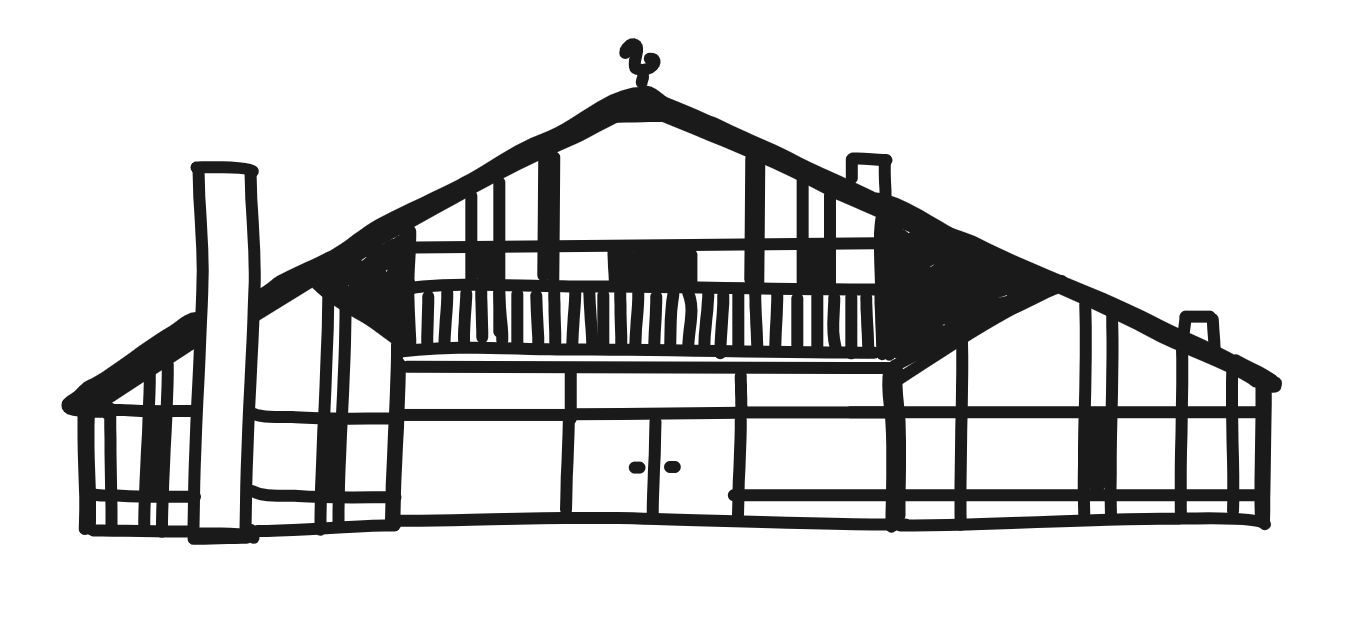
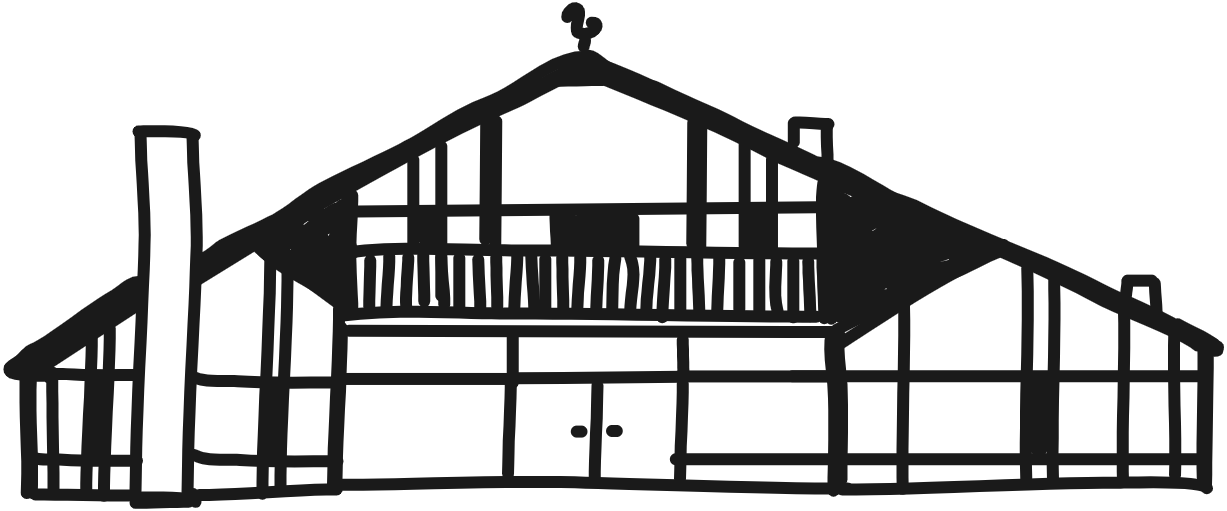
Adds a main photo, adds a bunch of styling

diff --git a/styles.css b/styles.css
@@ -12,25 +12,19 @@
   --lobster: 'Lobster', cursive;
 
   /* spacing */
-  --section-margin: 0.55em;
+  /* --section-margin: 0.55em; */
+  --page-width: 960px;
 }
 
 html {
   font-family: var(--im-fell-english);
   color: var(--almost-black);
+  text-align: center;
 }
 
 body {
   margin: 0;
   background-color: var(--background-tan);
-  text-align: center;
-}
-
-.header {
-  display: grid;
-  align-content: center;
-  align-items: center;
-  position: relative;
 }
 
 h1,
@@ -38,13 +32,20 @@ h2 {
   margin: 0;
 }
 
-h2 {
+.placeholder-screen {
   height: 200vh;
 }
 
 a {
   text-decoration: none;
   color: inherit;
+}
+
+.header {
+  display: grid;
+  align-content: center;
+  align-items: center;
+
 }
 
 .names {
@@ -56,7 +57,7 @@ a {
   grid-template-rows: repeat(3, auto);
   justify-content: center;
   align-items: baseline;
-  margin: var(--section-margin) 0;
+  margin: 0.55em 0;
 }
 
 .name {
@@ -80,11 +81,14 @@ a {
 }
 
 .saengerbund-drawing-container {
-  aspect-ratio: 1345 / 625;
+  aspect-ratio: 1227 / 511;
   justify-self: center;
+  margin: 0 3rem;
 }
 
-.saengerbund-drawing {
+.saengerbund-drawing,
+.couple-photo {
+  display: block;
   object-fit: contain;
   height: 100%;
   width: 100%;
@@ -93,10 +97,8 @@ a {
 .nav-container {
   position: sticky;
   top: 0;
-  padding: 1rem 0;
+  padding: 1.5rem 0;
   background-color: var(--background-tan);
-  box-shadow: 0 10px 10px 0 var(--background-tan);
-  margin-bottom: var(--section-margin);
 }
 
 .nav-list {
@@ -115,8 +117,33 @@ a {
   color: var(--almost-black);
 }
 
-.nav-link:hover {
-  color: var(--dark-grey);
+.nav-link:active {
+  color: var(--light-grey);
+}
+
+.couple-photo-container {
+  display: grid;
+  place-items: center;
+}
+
+.couple-photo {
+  aspect-ratio: 3024 / 2316;
+}
+
+.date-container {
+  display: grid;
+  place-items: center;
+  padding: 3rem 1rem;
+}
+
+.date {
+  font-size: 2rem;
+}
+
+.more-details {
+  font-size: 2rem;
+  margin-top: 8rem;
+  margin-bottom: 12rem;
 }
 
 @media (min-width: 900px) {
@@ -142,11 +169,41 @@ a {
   }
 
   .saengerbund-drawing-container {
-    width: 40%;
+    height: 14rem;
+  }
+
+  .nav-container {
+    margin-bottom: 2rem;
   }
 
   .nav-list {
     grid-column-gap: 2rem;
-    font-size: 1.5rem;
+    font-size: 2rem;
+  }
+
+  .couple-photo {
+    max-width: var(--page-width);
+  }
+
+  .date-container {
+    padding: 8rem 0;
+  }
+
+  .date {
+    font-size: 3rem;
+  }
+
+  .more-details {
+    margin-bottom: 16rem;
+  }
+}
+
+@media (hover: hover) and (pointer: fine) {
+  .nav-link:hover {
+    color: var(--dark-grey);
+  }
+
+  .nav-link:active {
+    color: var(--light-grey);
   }
 }

diff --git a/index.html b/index.html
@@ -28,28 +28,33 @@
           class="saengerbund-drawing"
           src="assets/saengerbund-drawing-cropped-transparent.png"
           alt="A line drawing of the Delaware Saengerbund building"
-          height="1345"
-          width="625">
+          height="1227"
+          width="511">
       </div>
     </header>
 
     <nav class="nav-container">
       <ul class="nav-list">
         <li><a class="nav-link" href="#">Home</a></li>
-        <li><a class="nav-link" href="#">RSVP</a></li>
+        <!-- <li><a class="nav-link" href="#">RSVP</a></li>
         <li><a class="nav-link" href="#">things</a></li>
-        <li><a class="nav-link" href="#">other stuff</a></li>
+        <li><a class="nav-link" href="#">other stuff</a></li> -->
       </ul>
     </nav>
 
-    <h2>Saturday, August 13th, 2022 Saturday, August 13th, 2022 Saturday, August 13th, 2022 Saturday, August 13th, 2022
-    Saturday, August 13th, 2022 Saturday, August 13th, 2022Saturday, August 13th, 2022 Saturday, August 13th, 2022
-  Saturday, August 13th, 2022 Saturday, August 13th, 2022Saturday, August 13th, 2022 Saturday, August 13th, 2022
-Saturday, August 13th, 2022 Saturday, August 13th, 2022Saturday, August 13th, 2022 Saturday, August 13th, 2022
-Saturday, August 13th, 2022 Saturday, August 13th, 2022Saturday, August 13th, 2022 Saturday, August 13th, 2022
-Saturday, August 13th, 2022 Saturday, August 13th, 2022Saturday, August 13th, 2022 Saturday, August 13th, 2022
-Saturday, August 13th, 2022 Saturday, August 13th, 2022Saturday, August 13th, 2022 Saturday, August 13th, 2022</h2>
-    <h2>More details to come!</h2>
+    <div class="couple-photo-container">
+      <img
+        class="couple-photo"
+        src="assets/julia-and-david-proposal-1-edit.jpg"
+        alt="David is shown on one knee proposing to Julia"
+        width="3024"
+        height="2316">
+    </div>
+
+    <div class="date-container">
+      <h2 class="date">Saturday, August 13th, 2022</h2>
+    </div>
+    <h2 class="more-details">More details to come!</h2>
     </div>
   </body>
 </html>
